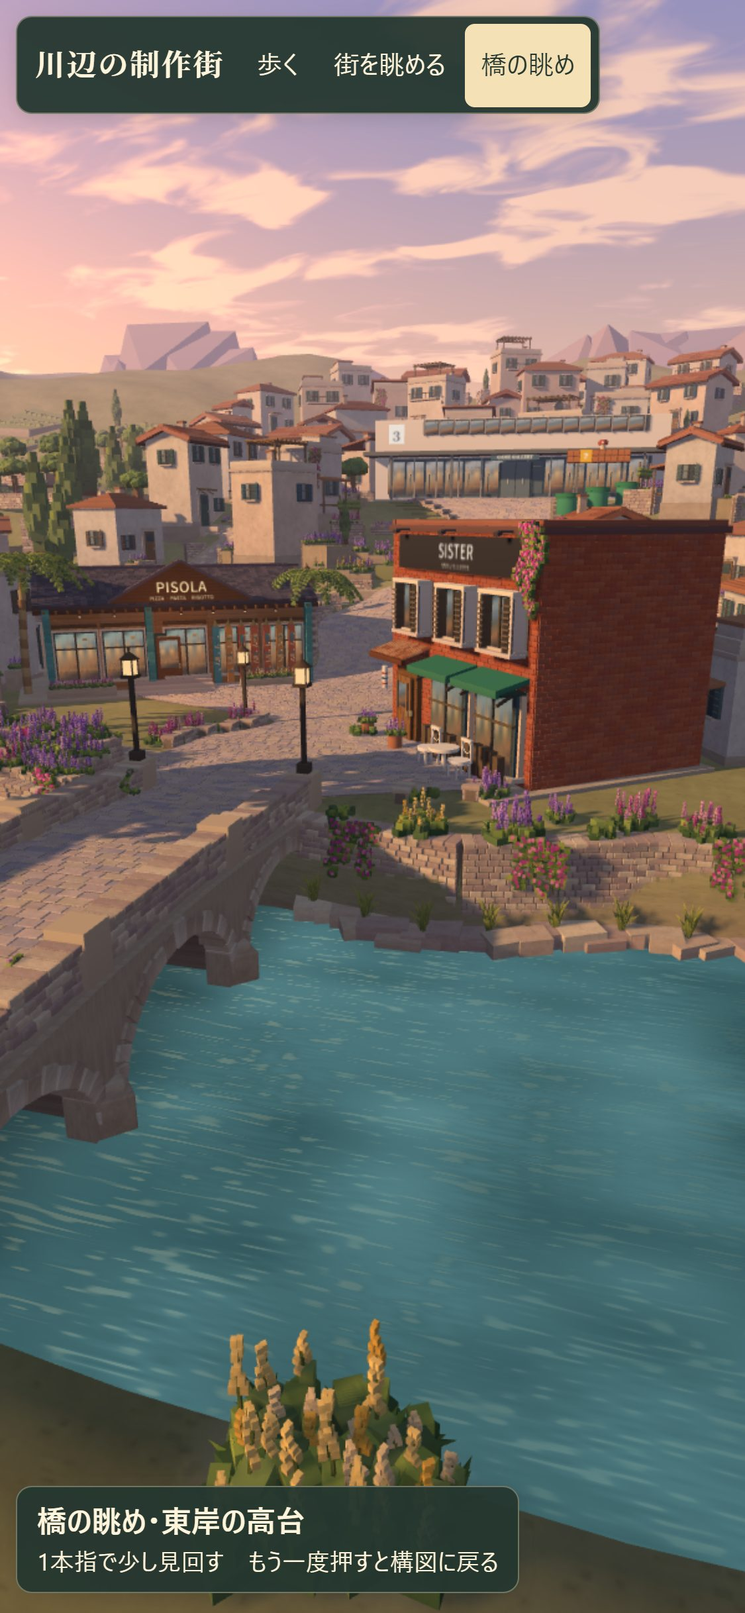
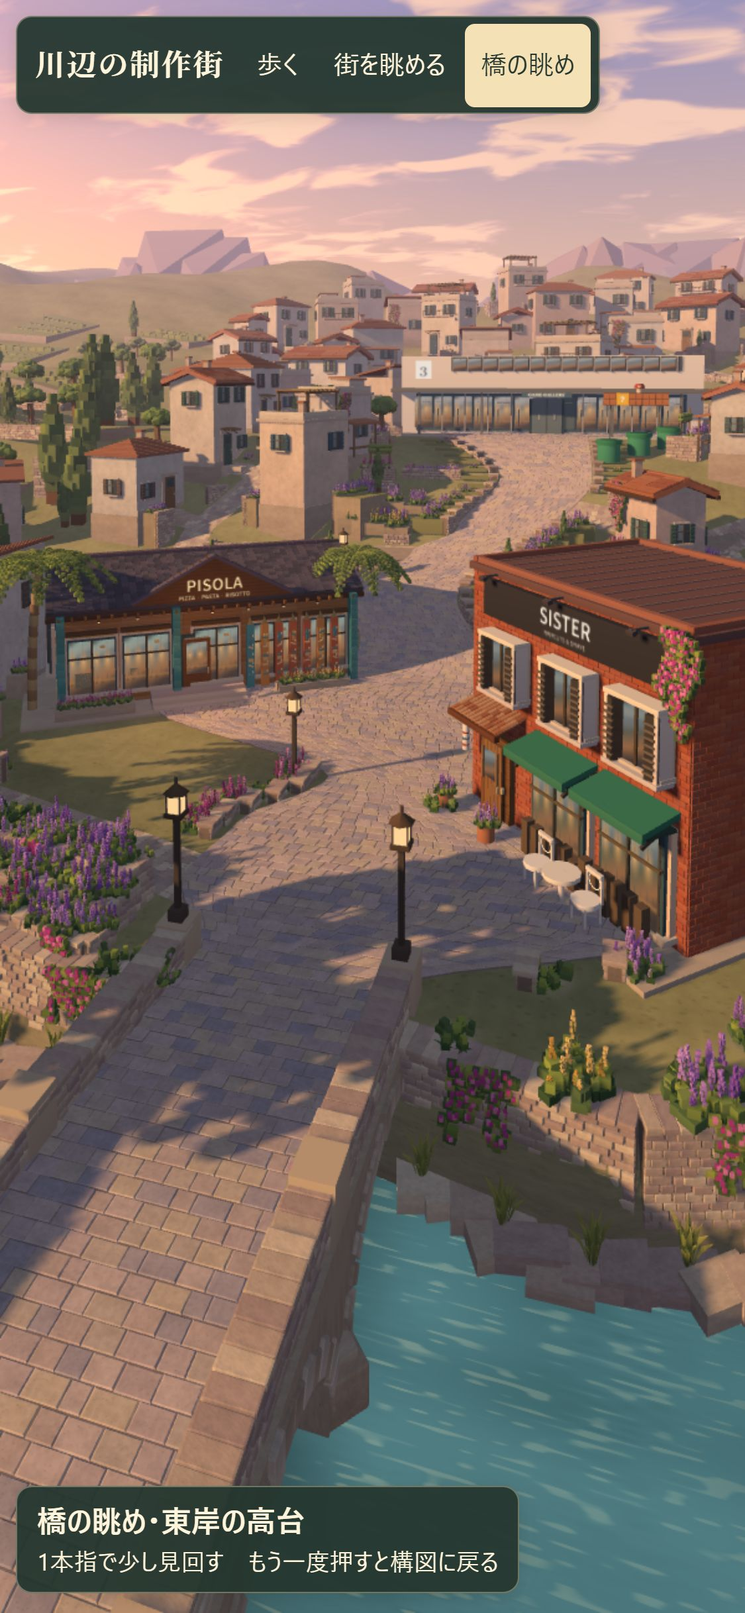
docs(prototype): record the portrait candidates and the shading method
Compare the 84-degree portrait with three candidates against the user's
conditions a-g and record why candidate B was chosen. Write down the
shading measurement (regions, Rec.709 luminance, brick test, DPR 1, UI
hidden) and replace the table with values for 7a57916, 9c462ee and now
measured that way. Correct the arch wording, settle the design note's
pre-decision phrasing, and record the headed Chrome checks.

diff --git a/prototype/review/vista.html b/prototype/review/vista.html
@@ -38,7 +38,7 @@
 <header><h1>橋の眺め（採用案B 東岸の高台）</h1>
   <div class="open"><a href="walk.html#vista">操作して見る →</a></div>
 </header>
-<p>2案のうち、曲がる坂と展示館の正面全体が見える案B「東岸の高台」を採用し、案Aは削除しました。案Bの弱点だった「アーチが見えない」「縦長画面で空が多い」を、坂と展示館の見え方を保ったまま調整しています。あわせて、返り光で浅くなっていた陰影を戻しました。</p>
+<p>2案のうち、曲がる坂と展示館の正面全体が見える案B「東岸の高台」を採用し、案Aは削除しました。横長は坂と展示館の見え方を保ったままアーチが見えるよう調整し、縦長は3つの候補を比べて作り直しました。あわせて、返り光で浅くなっていた陰影を戻しました。</p>
 <div class="options" role="group" aria-label="撮影サイズ">
   <label><input type="radio" name="size" value="desktop" checked> PC · 1280 × 800</label>
   <label><input type="radio" name="size" value="mobile"> スマホ · 375 × 812</label>
@@ -56,18 +56,34 @@
   <h2>理想画像と調整前後</h2>
   <div class="grid">
     <figure><figcaption><b>理想画像</b> · 夕景コンセプト</figcaption><a href="ideal-evening.jpg"><img src="ideal-evening.jpg" alt="理想画像"></a></figure>
-    <figure><figcaption><b>調整前の案B</b></figcaption><a href="vista-before-375.jpg"><img src="vista-before-375.jpg" alt="スマホ幅の調整前。上の約4分の1が空で、アーチは見えない"></a></figure>
-    <figure><figcaption><b>調整後</b></figcaption><a href="vista-375.jpg"><img src="vista-375.jpg" alt="スマホ幅の調整後。空は上の2割、手前は川と2つのアーチ"></a></figure>
+    <figure><figcaption><b>調整前の案B</b> · 9c462ee</figcaption><a href="vista-before-375.jpg"><img src="vista-before-375.jpg" alt="スマホ幅の調整前。上の約4分の1が空で、アーチは見えない"></a></figure>
+    <figure><figcaption><b>最終（候補B）</b></figcaption><a href="vista-375.jpg"><img src="vista-375.jpg" alt="スマホ幅の最終構図。空は上の約15%、中ほどに左のPISOLAと右のSISTER、奥に曲がる坂と展示館、手前は橋の上面と水面"></a></figure>
   </div>
   <p class="note">縦長画面（縦横比0.8未満）は、横長とは別のカメラ位置と画角を使います。</p>
 </section>
 
 <h2>構図の調整</h2>
 <ul>
-  <li><b>横長</b>：カメラを東へ3.2m・後ろへ1m・下へ0.6m動かし、画角を47°から45°にしました。手前の橋のアーチが2つ読めます。展示館の正面全体は、SISTERの屋根より上に見えたままです。</li>
-  <li><b>縦長</b>：カメラを東へ3m・前へ7.5m・下へ1.6m動かして川の上（南岸の手前）へ出し、注視点を下げて画角を66°から84°にしました。空だけの行は画面上部の23.6%から20.0%に減りました。PISOLAとSISTERは両方とも画面内に収まり、左右の余白はそれぞれ約14px・約8pxです。手前は水面と岸の花で、アーチも2つ見えます。</li>
-  <li><b>中間の縦横比</b>：各構図は基準の縦横比（横長16:10、縦長375×812）で決めています。それより幅の狭い窓では、両店が切れないよう画角を自動で広げます。たとえば800×1000の窓では79.3°になり、そのぶん空が多く見えます。</li>
+  <li><b>横長</b>：カメラを東へ3.2m・後ろへ1m・下へ0.6m動かし、画角を47°から45°にしました。手前の橋のアーチは、1つが完全に見え、2つ目は下端が半分切れます。展示館の正面全体は、SISTERの屋根より上に見えたままです。</li>
+  <li><b>縦長</b>：高さ12mの (6, 12, 25) から、見下ろし4°でPISOLA側へ向け、写す範囲を画面の高さの22.9%だけ下へずらしました（シフトレンズ）。画角は84°です。縦の線がほぼまっすぐ（傾き1.4°）のまま、街が画面の22〜60%を占めます。手前は橋の上面と水面で、アーチは見えません。</li>
+  <li><b>窓の形</b>：基準の画面（横長1280×800、縦長375×812）と形が違う窓では、PISOLAの店全体とSISTERの正面が画面の端から12px以上内側に入るまで画角を広げます。上限は90°です。300×1200のような極端な縦長では、上限で止まるため両店の外側が切れます。</li>
 </ul>
+
+<h2>縦長の構図の候補</h2>
+<p>375×812で、4925ffa の84°と3つの候補を並べました。画角を詰めるだけではPISOLAが切れるため、どの候補もカメラの向きをPISOLA側へ寄せ、位置と高さもあわせて動かしています。</p>
+<a href="vista-portrait-candidates-375.jpg"><img src="vista-portrait-candidates-375.jpg" alt="縦長の構図の比較。左から4925ffaの84°、候補A 80°、候補B 84°・シフト（採用）、候補C 84°・シフト"></a>
+<div class="scroll"><table>
+  <tr><th>条件</th><th>4925ffa の84°</th><th>候補A</th><th>候補B（採用）</th><th>候補C</th></tr>
+  <tr><td>a. PISOLA全体の余白（12px以上）</td><td>10.9px ✗</td><td>18.9px</td><td class="now">19.9px</td><td>20.2px</td></tr>
+  <tr><td>b. SISTERの正面の余白</td><td>101.6px</td><td>24.8px</td><td class="now">25.3px</td><td>18.0px</td></tr>
+  <tr><td>c. 坂と展示館の正面の余白</td><td>36.7px</td><td>14.8px</td><td class="now">20.6px</td><td>12.7px</td></tr>
+  <tr><td>d. 街の帯（画面の高さに対して）</td><td>25.6〜49.3%</td><td>34.5〜63.8%</td><td class="now">22.0〜59.8%</td><td>22.0〜70.3%</td></tr>
+  <tr><td>d. 水面の画素</td><td>27.8%</td><td>13.0%</td><td class="now">11.9%</td><td>2.7%</td></tr>
+  <tr><td>e. 縦の線の傾き</td><td>6.3°</td><td>3.3°</td><td class="now">1.4°</td><td>1.5°</td></tr>
+  <tr><td>f. 橋のアーチ</td><td>1つ半</td><td>見えない</td><td class="now">見えない</td><td>見えない</td></tr>
+  <tr><td>g. 画角（90°以下）</td><td>84°</td><td>80°</td><td class="now">84°</td><td>84°</td></tr>
+</table></div>
+<p class="note">候補Aは空が画面の上35%近くを占め、候補Cは真上に近くSISTERの側面が切れます。候補Bは空が上の約15%で、両店の看板・窓・ひさしが読めます。条件の測り方は README の「縦長の構図の候補」にあります。</p>
 
 <h2>陰影の調整</h2>
 <p>返り光を0.62から0.30に弱め、色を暖色からやや青寄りの中立色に変えました。日陰の赤みは返り光を入れる前とほぼ同じに戻り、日向との差も広がりました。葉とPISOLAの暗部は、返り光を入れる前（7a57916）より少ない状態を保っているため、点光源の追加は不要と判断しました。</p>
@@ -75,18 +91,18 @@
   <figure><figcaption>調整前 · 9c462ee（返り光0.62・暖色）</figcaption><a href="shade-before-1280.jpg"><img src="shade-before-1280.jpg" alt="調整前の陰影。SISTERの日陰の側面が赤く明るい"></a></figure>
   <figure><figcaption>調整後（返り光0.30・やや青寄り）</figcaption><a href="vista-1280.jpg"><img src="vista-1280.jpg" alt="調整後の陰影。SISTERの日陰の側面が落ち着いた色になる"></a></figure>
 </div>
-<p class="note">調整後の構図と同じカメラで測った値。輝度は0〜255、暗部は輝度60未満の画素の割合。SISTERの壁はれんが色の画素だけを数えた。</p>
+<p class="note">最終構図と同じカメラ、画素比1、UIを隠した画面写真で測った値。輝度はRec.709（0〜255）、暗部は輝度60未満の画素の割合。SISTERの壁はれんが色（R＞1.3G、R＞1.3B、R−G＞12）の画素だけを数えた。領域の座標は README にあります。</p>
 <div class="scroll"><table>
   <tr><th>項目</th><th>7a57916（返り光なし）</th><th>9c462ee（0.62・暖色）</th><th>今回（0.30・やや青）</th></tr>
-  <tr><td>PC　SISTERの日向／日陰の輝度比</td><td>2.57</td><td>1.85</td><td class="now">2.05</td></tr>
-  <tr><td>PC　SISTER日陰の赤／青の比</td><td>2.19</td><td>3.04</td><td class="now">2.23</td></tr>
-  <tr><td>PC　左上の葉の暗部</td><td>65.1%</td><td>22.8%</td><td class="now">30.8%</td></tr>
-  <tr><td>PC　PISOLA正面の暗部</td><td>53.5%</td><td>26.7%</td><td class="now">30.7%</td></tr>
-  <tr><td>スマホ　SISTERの日向／日陰の輝度比</td><td>2.63</td><td>1.89</td><td class="now">2.09</td></tr>
-  <tr><td>スマホ　SISTER日陰の赤／青の比</td><td>2.21</td><td>3.05</td><td class="now">2.24</td></tr>
-  <tr><td>スマホ　PISOLA正面の暗部</td><td>52.9%</td><td>23.9%</td><td class="now">29.2%</td></tr>
+  <tr><td>PC　SISTERの日向／日陰の輝度比</td><td>2.51</td><td>1.65</td><td class="now">1.98</td></tr>
+  <tr><td>PC　SISTER日陰の赤／青の比</td><td>2.19</td><td>3.01</td><td class="now">2.24</td></tr>
+  <tr><td>PC　左上の葉の暗部</td><td>78.3%</td><td>15.1%</td><td class="now">26.9%</td></tr>
+  <tr><td>PC　PISOLA正面の暗部</td><td>53.7%</td><td>26.3%</td><td class="now">30.2%</td></tr>
+  <tr><td>スマホ　SISTERの日向／日陰の輝度比</td><td>2.41</td><td>1.65</td><td class="now">1.91</td></tr>
+  <tr><td>スマホ　SISTER日陰の赤／青の比</td><td>2.35</td><td>3.22</td><td class="now">2.36</td></tr>
+  <tr><td>スマホ　PISOLA正面の暗部</td><td>41.2%</td><td>12.3%</td><td class="now">16.9%</td></tr>
 </table></div>
-<p class="note">縦長の構図では、オリーブの葉はほとんど画面に入らないため、葉の値は測っていません。</p>
+<p class="note">縦長の構図では、オリーブの葉は画面に入らないため、葉の値は測っていません。</p>
 
 <h2>橋のアーチ</h2>
 <p>677d0e7 で、段状の箱だった橋の側面を3連の楕円アーチに作り替えました（迫石・要石・アーチ裏面・橋脚の水切り）。歩行の通路と通行判定は変えていません。</p>

diff --git a/prototype/README.md b/prototype/README.md
@@ -43,34 +43,86 @@
 
 [理想画像と調整前後を比べる](review/vista.html)。2案を比べたうえで、曲がる坂と展示館の正面全体が見える案B「東岸の高台」を採用し、案Aは削除した。「橋の眺め」モードで、南東岸から石橋の東面越しに街を見る。`walk.html#vista` で直接開ける。2案比較時のリンク用に `#vista-b` も同じ構図で開き、`#vista-a` は石橋の歩行開始位置で開く。
 
-| 画面 | カメラ位置 | 注視点 | 縦画角 | 基準の縦横比 |
+| 画面 | カメラ位置 | 注視点 | 縦画角 | 画面のずらし |
 | --- | --- | --- | --- | --- |
-| 横長（縦横比0.8以上） | (10, 6.2, 32.5) | (-2, 1, -7) | 45° | 16:10 |
-| 縦長（縦横比0.8未満） | (9.8, 7, 29.5) | (-0.3, -5.2, -7) | 84° | 375×812 |
+| 横長（縦横比0.8以上） | (10, 6.2, 32.5) | (-2, 1, -7) | 45° | なし |
+| 縦長（縦横比0.8未満） | (6, 12, 25) | (-1.64, 9.91, -3.94) | 84° | 下へ画面の高さの22.9% |
+
+縦長は、見下ろしを4°に抑えたうえで、写す範囲を下へずらしている（建築写真のシフトレンズと同じ。Three.jsの `setViewOffset`）。縦の線をほぼまっすぐに保ったまま、街を画面の中ほどに置ける。
 
 調整前の案Bは、横長が (6.8, 6.8, 31.5) から (-1.8, 1, -7) を画角47°、縦長が (6.8, 8.6, 37) から (-2.2, 1.2, -8) を画角66°で見ていた。高い位置から見下ろすためアーチがほとんど見えず、縦長では空だけの行が画面上部の23.6%を占めていた。
 
-- 横長：カメラを東へ3.2m・後ろへ1m・下へ0.6m動かした。手前の橋のアーチが2つ読め、展示館の正面全体はSISTERの屋根より上に見えたまま。空だけの行は7.8%から7.1%。
-- 縦長：カメラを川の上（南岸の手前）へ出し、注視点を下げた。空だけの行は20.0%。PISOLAとSISTERは両方とも画面内に収まり、左右の余白は約14px・約8px（375×812・DPR 3の画面写真で計測）。手前は水面と岸の花で、アーチも2つ見える。カメラを南岸の上に置いたまま注視点を下げると、画面下の4分の1が何もない地面になったため、川の上へ出した。
-- 中間の縦横比：基準の縦横比より幅の狭い窓では、横方向の見える範囲を保つよう縦画角を広げる。800×1000では79.3°、1000×800では55.9°、360×800では85.5°。そのぶん空が多く見える。
+- 横長：カメラを東へ3.2m・後ろへ1m・下へ0.6m動かした。手前の橋のアーチは、1つが完全に見え、2つ目は下端が半分切れる。展示館の正面全体はSISTERの屋根より上に見えたまま。空だけの行は7.8%から7.1%。
+- 縦長：4925ffa では (9.8, 7, 29.5) から (-0.3, -5.2, -7) を画角84°で見下ろしていた（見下ろし17.9°）。街が画面の25〜47%の細い帯に収まり、下半分は水面・手前の花・左下の土で、縦の線も約6°傾き、PISOLAの左端は画面の端から11pxしかなかった。そこで下の「縦長の構図の候補」の3案を比べ、候補Bを採った。
+- 窓の形に合わせた画角：構図はそれぞれの基準の画面（横長1280×800、縦長375×812）で決めている。窓の形が違うときは、PISOLAの全体（左右の軒の端、三角の看板、青緑の柱、2本のヤシの上端）とSISTERの正面（軒、看板、緑のひさし、白い椅子）の要所が画面の端から12px以上内側に入るまで縦画角を広げる。広げるのは90°までで、構図の画角より狭くはしない。要所の座標は `town.js` の `vistaKeep` に、建物と同じ配置の計算で置いている。SISTERの側面の奥の端は切れてもよい。
 
 見回しは左右±0.32、上下±0.18ラジアン（約18°・10°）まで。鑑賞中にもう一度「橋の眺め」を押すと見回しが0に戻る。歩行位置と俯瞰の状態は鑑賞視点に入っても変わらず、戻ると元の場所から再開する。
 
 石橋の側面は段状の箱で、横から見てもアーチに読めなかった。これを3連の楕円アーチに置き換えた。各アーチは径間4.16mで、迫石19個（中央は要石）、暗めの穹窿の裏面、川中の橋脚2基の水切りで構成する。歩行の通路と通行判定は変えていない。街全体の配置がずれないよう、元の橋の色の抽選回数は残している。
 
-夕日と反対側を向く面には、影を落とさない弱い補助光を当てている。677d0e7 では暖色の0.62だったが、日陰が赤く明るくなり陰影が浅くなったため、0.30のやや青寄りの中立色（#dfe4f4）に変えた。PISOLAの軒下にはペンダント照明の光が店先へこぼれる点光源を置き、オリーブとヤシの葉は太陽を背にした面が薄く透ける。調整後の構図と同じカメラで測った値は次のとおり（輝度は0〜255、暗部は輝度60未満の画素の割合、SISTERの壁はれんが色の画素だけを数えた）。
+夕日と反対側を向く面には、影を落とさない弱い補助光を当てている。677d0e7 では暖色の0.62だったが、日陰が赤く明るくなり陰影が浅くなったため、0.30のやや青寄りの中立色（#dfe4f4）に変えた。PISOLAの軒下にはペンダント照明の光が店先へこぼれる点光源を置き、オリーブとヤシの葉は太陽を背にした面が薄く透ける。
+
+**陰影の測り方**　各版の `prototype/` をそのまま単独HTMLに組み直し（`build_walk.py`）、Windows版Chromeで開く。表示領域を1280×800または375×812、画素比（DPR）1にして、描画用のcanvas以外の要素（見出し・現在地・方向ボタンなど）を `visibility:hidden` で隠す。カメラは上の表の最終構図（横長・縦長、縦長は画面のずらしも含む）に置いて描き、Chrome DevTools ProtocolのPNGの画面写真を測る。
+
+- 輝度：Rec.709の 0.2126R＋0.7152G＋0.0722B（0〜255）。暗部は輝度60未満の画素の割合
+- れんが色：R＞1.3G かつ R＞1.3B かつ R−G＞12 の画素だけを数える（SISTERの壁の窓・鎧戸・枠を除くため）
+- 赤／青の比：領域内のれんが色の画素のRの合計÷Bの合計
+- 領域（左上を原点とする画素座標、左上〜右下。右下の行と列は含まない）
+
+| 領域 | 1280×800 | 375×812 |
+| --- | --- | --- |
+| SISTERの日向（正面） | (702, 292)〜(838, 392) | (244, 318)〜(326, 372) |
+| SISTERの日陰（東の側面） | (850, 262)〜(1012, 500) | (355, 322)〜(372, 470) |
+| 左上の葉（色で選ばず全画素） | (0, 255)〜(300, 352) | 葉が入らないため測らない |
+| PISOLA正面（全画素） | (360, 330)〜(620, 420) | (24, 310)〜(181, 350) |
 
 | 項目 | 7a57916（補助光なし） | 9c462ee（0.62・暖色） | 今回（0.30・やや青） |
 | --- | --- | --- | --- |
-| 1280×800　SISTERの日向／日陰の輝度比 | 2.57 | 1.85 | 2.05 |
-| 1280×800　SISTER日陰の赤／青の比 | 2.19 | 3.04 | 2.23 |
-| 1280×800　左上の葉の暗部 | 65.1% | 22.8% | 30.8% |
-| 1280×800　PISOLA正面の暗部 | 53.5% | 26.7% | 30.7% |
-| 375×812　SISTERの日向／日陰の輝度比 | 2.63 | 1.89 | 2.09 |
-| 375×812　SISTER日陰の赤／青の比 | 2.21 | 3.05 | 2.24 |
-| 375×812　PISOLA正面の暗部 | 52.9% | 23.9% | 29.2% |
+| 1280×800　SISTERの日向／日陰の輝度比 | 2.51 | 1.65 | 1.98 |
+| 1280×800　SISTER日陰の赤／青の比 | 2.19 | 3.01 | 2.24 |
+| 1280×800　左上の葉の暗部 | 78.3% | 15.1% | 26.9% |
+| 1280×800　PISOLA正面の暗部 | 53.7% | 26.3% | 30.2% |
+| 375×812　SISTERの日向／日陰の輝度比 | 2.41 | 1.65 | 1.91 |
+| 375×812　SISTER日陰の赤／青の比 | 2.35 | 3.22 | 2.36 |
+| 375×812　PISOLA正面の暗部 | 41.2% | 12.3% | 16.9% |
 
-日陰の赤みは補助光を入れる前とほぼ同じに戻り、日向との差も広がった。葉とPISOLAの暗部は7a57916より大幅に少ないままなので、点光源は強めていない。縦長の構図ではオリーブの葉がほとんど入らないため、葉の値は測っていない。
+レビュー時の値との差：1280×800はレビュー（212a431）と同じ領域・式・画素比で測ったので、日向／日陰比1.98・葉の暗部26.9%は一致する。375×812は縦長の構図を作り直したため、新しい構図で領域を選び直した（レビューの1.90は旧84°構図・DPR 3の値）。e65fdd6 時点の表（2.05・30.8%など）は領域と式が記録されておらず、ここでは置き換えた。
+
+日陰の赤みは補助光を入れる前とほぼ同じに戻り、日向との差も広がった。葉とPISOLAの暗部は7a57916より大幅に少ないままなので、点光源は強めていない。
+
+### 縦長の構図の候補
+
+[375×812の比較画像](review/vista-portrait-candidates-375.jpg)（左から、4925ffa の84°、候補A・B・C）。どの候補も、カメラの向きをPISOLA側へ寄せて両店のあいだに置いた。画角を詰めるだけではPISOLAが切れるため、カメラの位置と高さもあわせて動かしている。数値は375×812での値。余白は、各条件の要所のうち画面の端に最も近い点までの距離。街の帯は、展示館の正面の上端から両店の足元の低いほうまでを、画面の高さに対する割合で表す。傾きは、SISTERの正面の両端とPISOLAの端の柱を、画面上で垂直からどれだけ傾いて写るかの最大値。
+
+| 条件 | 4925ffa の84° | 候補A | 候補B（採用） | 候補C |
+| --- | --- | --- | --- | --- |
+| カメラ位置 → 注視点 | (9.8, 7, 29.5) → (-0.3, -5.2, -7) | (6, 8.5, 27.5) → (-1.09, 3.29, -1.18) | (6, 12, 25) → (-1.64, 9.91, -3.94) | (6, 16, 24) → (-2.08, 13.91, -4.82) |
+| 見下ろし・画面のずらし | 17.9°・なし | 10°・なし | 4°・下へ22.9% | 4°・下へ26.8% |
+| a. PISOLA全体の余白（12px以上） | 10.9px ✗ | 18.9px ✓ | 19.9px ✓ | 20.2px ✓ |
+| b. SISTERの正面の余白 | 101.6px ✓ | 24.8px ✓ | 25.3px ✓ | 18.0px ✓（側面はほぼ切れる） |
+| c. 坂と展示館の正面 | 見える（余白36.7px） | 見える（14.8px） | 見える（20.6px）。曲がる坂の全体が読める | 見える（12.7px） |
+| d. 街の帯 | 25.6〜49.3%（23.7%） | 34.5〜63.8%（29.4%） | 22.0〜59.8%（37.8%） | 22.0〜70.3%（48.4%） |
+| d. 帯より下の割合・水面の画素 | 50.7%・27.8% | 36.2%・13.0% | 40.2%・11.9%。下は橋の上面と水面で、手前の花と土はない | 29.7%・2.7% |
+| e. 縦の線の傾き | 6.3° | 3.3° | 1.4° | 1.5° |
+| f. 橋のアーチ | 1つ半が見える | 見えない（橋の上面） | 見えない（橋の上面） | 見えない |
+| g. 画角（90°以下） | 84° ✓ | 80° ✓ | 84° ✓ | 84° ✓ |
+| 見た目 | 下半分が水面と花 | 空が画面の上35%近くを占め、店は小さめ | 空は上の約15%。両店の看板・窓・ひさしが読める | 真上に近く、屋根が目立つ。SISTERの側面が切れ、PISOLAは小さく見える |
+
+候補Bは a〜e と g を満たし、帯がいちばん大きい候補Cより、高さ12mで見下ろす角度が自然で、SISTERの建物としての量感も残る。f（アーチ）は、カメラを高くして見下ろしを浅くしたため見えなくなった。アーチが見える高さまで下げると、街の帯が小さくなり、下の水面が増える（4925ffa の構図に近づく）。水面の画素は、画面の上3割を除いた範囲で G＞R＋25 かつ B＞R＋25 の画素の割合。
+
+窓の形ごとの縦画角と、PISOLAとSISTERの正面の要所の余白（実際のページのカメラで計測）：
+
+| 窓（CSS px） | 使う構図 | 縦画角 | 要所の最小余白 | 条件a |
+| --- | --- | --- | --- | --- |
+| 375×812 | 縦長 | 84° | 19.9px | ✓ |
+| 390×844 | 縦長 | 84° | 20.8px | ✓ |
+| 430×932 | 縦長 | 84° | 22.6px | ✓ |
+| 360×800 | 縦長 | 84° | 14.9px | ✓ |
+| 799×1000 | 縦長 | 84° | 193.1px | ✓ |
+| 800×1000 | 横長 | 45° | 28.1px | ✓（展示館の正面の右端は8px切れる） |
+| 300×1200 | 縦長 | 90°（上限） | −73px | ✗ 上限の90°でも両店は入らない |
+
+300×1200のような極端な縦長では、90°で止めるため両店の外側が切れる。そのぶん、4925ffa のように画角が118°まで広がって街が細い帯になることはない。
 
 ## 動作確認
 
@@ -186,5 +238,23 @@ Windows版Chrome（Intel Iris Xe・D3D11）で単独HTMLを開いた。1280×800
 - 縦長（画角84°）では、街は画面の上から約25〜47%の帯に収まり、画面の下半分は水面と、手前の大きな花の群れ・左下の土の地面になる。注視点を下げているため縦の線が傾き、SISTERの右の壁は上ほど右へ開く。橋の左端も引き伸ばされる。SISTERの軒の右の余白は約6px（壁の下端では約20px）。PISOLAの左の余白は、軒の端で約8px、青緑の柱で約21pxで、記録の「約14px」はどこを端とするかで変わる。
 - 比較のため、同じ位置・注視点のまま画角を72°・70°に詰めた構図と、70°で注視点を2.6m上げた構図を画面写真だけで作った（[375px幅の比較](review/review-vista-fov-375.jpg)、コードは変えていない）。70°では建物が約1.2倍になり、PISOLAの看板と窓、SISTERの日除けが読みやすくなる。代わりにPISOLAの左翼とSISTERの側面の右端が少し切れ、アーチは1つ半になる。下半分が水面なのは変わらず、手前の花は下端で穂先だけが覗く。注視点を上げると空が増え、花はほぼ消える。両店の外側が少し切れても、店の顔が読める70〜72°のほうが、理想画像の「近い店先」には近い。採る場合は、カメラを少し下げるか注視点を上げ、下半分の水面を減らす調整とあわせて決めたい。
 - 横長（1280×800）の手前のアーチは、1つが完全に見え、2つ目は画面の下端で半分ほど切れる。「2つ読める」はやや甘い表現。
+
+### 縦長の構図の作り直しの確認（2026-11-25・Claude）
+
+縦長の構図を候補Bへ替え、画角の自動拡大を「PISOLA全体＋SISTERの正面」・上限90°へ改めたあと、212a431 のレビューと同じ方法で確かめた。窓ありのWindows版Chrome 158（Intel Iris Xe・D3D11、一時プロファイル）に、Chrome DevTools Protocolから実際のキー・マウス・タッチ入力を送った。1280×800は表示領域の寸法指定（DPR 1.5）、375×812はタッチの模擬（DPR 3）。
+
+| 確認項目 | 結果 |
+| --- | --- |
+| 1280×800　歩行 → 橋の眺め → 見回し → もう一度押す → 歩く | 合格。鑑賞視点のカメラの向きは、記録の位置・注視点・見回し量から組み立てた向きと誤差0で一致。ドラッグ、Qの長押し、Eの長押しで左右±0.32・上下±0.18ラジアンで止まる。鑑賞中のWで歩行位置は動かず、もう一度押すと見回しが0に戻る。歩行に戻ると位置・向き・画角60°が鑑賞前と一致する |
+| 1280×800　俯瞰（回転・ホイール・右ドラッグ）→ 橋の眺め → 俯瞰 → 歩く | 合格。俯瞰の位置・向き・画角48°と、歩行位置の両方が保たれる |
+| 375×812の模擬タッチ | 合格。方向ボタンで歩いてドラッグした直後に「橋の眺め」を1回タップすると、新しい縦長の構図（画角84°・画面のずらし22.9%）に入る。見回しのドラッグ直後のタップで構図に戻り、ドラッグ直後の「歩く」で歩行に戻る。方向ボタンは鑑賞中と俯瞰中に隠れ、歩行で現れる。ピンチ後の俯瞰も保たれる |
+| 画面のずらしの後始末 | 合格。ずらしは橋の眺めの間だけ効き、俯瞰・歩行に移ると外れる（俯瞰67°、歩行78°の画角も変わらない） |
+| URL直開き | 合格。`#vista`・`#vista-b` は鑑賞視点、`#vista-a`・ハッシュなし・`#xyz`・`#constructor`・`#toString`・`#__proto__` は石橋の歩行開始位置、`#overview` は俯瞰（画角48°）、`#pisola` は (-4.3, -2.5)・向き0.95の歩行で開く |
+| 縦横比の切り替え | 合格。鑑賞中に14通りの寸法へ変えた。縦横比0.8ちょうど（800×1000、641×801）は横長用、0.8未満（799×1000、640×801）は縦長用に切り替わる。画角と要所の余白は「縦長の構図の候補」の表のとおり。表示領域の指定を外して窓を1280×752・520×752・900×600・600×760に変えたときも追従し、要所の余白は49.7px以上 |
+| 石橋から3入口まで歩く | 合格。歩行と同じ `canWalk` の0.2m格子で経路を求め、実際のWキーとマウスのドラッグで歩いた。SISTER・PISOLA・ゲーム展示館の3入口で入口名が表示された |
+| コンソール | エラーなし。警告は読み込みごとに1件、同梱のThree.js r160の非推奨の告知だけ |
+| スマートフォン実機・iPhone Safari | 未確認。この環境では実機と端末エミュレーターに接続できない |
+
+未解決：縦横比0.8の境目で、横長用（45°）と縦長用（84°・ずらしあり）の構図が大きく入れ替わる（レビュー提案4）。今回は変えていない。800×1000では展示館の正面の右端が8px切れ、300×1200では上限の90°でも両店の外側が切れる。
 
 `index.html` が通常の入口。`python prototype/review/build_walk.py` で同じソースから単独HTMLを再生成できる。Three.js r160（0.160.1、MIT）を同梱しており、ローカルでWebGLが使えるブラウザーから開ける。
